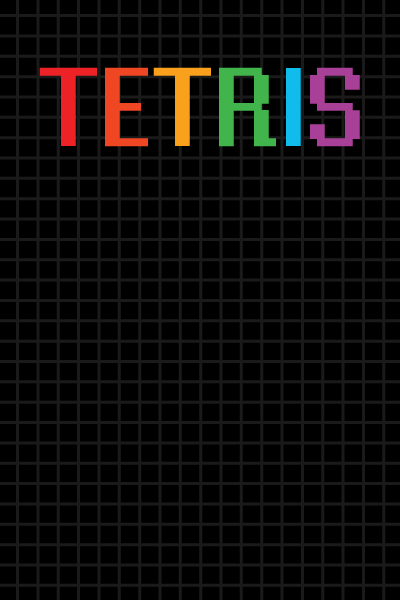
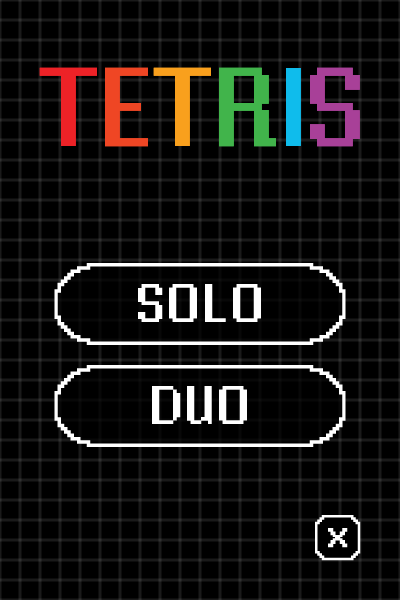
Feat: dialog 기능 구현 #105

Changed region(s): [[0.0, 0.0, 1.0, 1.0]]

diff --git a/app/src/main/java/tetris/view/MainView.java b/app/src/main/java/tetris/view/MainView.java
@@ -7,18 +7,23 @@ import tetris.presenter.MainPresenter;
 import java.awt.Graphics;
 import java.awt.Image;
 import javax.swing.*;
+import javax.swing.border.LineBorder;
+import javax.swing.border.TitledBorder;
 import java.awt.*;
 import java.awt.event.WindowEvent;
 
 public class MainView extends JFrame {
 
     private MainPresenter mainPresenter;
+    private boolean dialogOpen = false;
 
     private ImageIcon getResource(String path) {
         return new ImageIcon(getClass().getClassLoader().getResource(path));
     }
 
     private Image background = getResource("image/background.png").getImage();
+    private Image normalGameDialogBG = getResource("image/normalGameDialog.png").getImage();
+    private Image battleGameDialogBG = getResource("image/battleGameDialog.png").getImage();
 
     public MainView(final MainPresenter presenter) {
         this.mainPresenter = presenter;
@@ -35,6 +40,37 @@ public class MainView extends JFrame {
         };
         btnPanel.setLayout(null);
         btnPanel.setBorder(BorderFactory.createEmptyBorder(200 , 0 , 0 , 25));
+
+        JPanel normalGameDialog = new JPanel() {
+            public void paintComponent(Graphics g) {
+                g.drawImage(normalGameDialogBG, 0, 0, 400, 600, null);
+            }
+        };
+        JPanel battleGameDialog = new JPanel() {
+            public void paintComponent(Graphics g) {
+                g.drawImage(battleGameDialogBG, 0, 0, 400, 600, null);
+            }
+        };
+
+        JButton soloBtn = new JButton();
+        soloBtn.setBorderPainted(false);
+        soloBtn.setContentAreaFilled(false);
+        soloBtn.addActionListener(e -> {
+            if(dialogOpen) return;
+            normalGameDialog.setVisible(true);
+            dialogOpen = true;
+        });
+        soloBtn.setBounds(50, 245, 290, 80);
+
+        JButton duoBtn = new JButton();
+        duoBtn.setBorderPainted(false);
+        duoBtn.setContentAreaFilled(false);
+        duoBtn.addActionListener(e -> {
+            if(dialogOpen) return;
+            battleGameDialog.setVisible(true);
+            dialogOpen = true;
+        });
+        duoBtn.setBounds(50, 340, 290, 80);
 
         JButton playBtn = new JButton(getResource("image/play.png"));
         JButton normalBtn = new JButton(getResource("image/normal.png"));
@@ -165,11 +201,22 @@ public class MainView extends JFrame {
             App.navigate(App.View.CONFIG);
         });
 
+        JButton xBtn = new JButton();
+        xBtn.setBorderPainted(false);
+        xBtn.setContentAreaFilled(false);
+        xBtn.addActionListener(e -> {
+            if(dialogOpen) return;
+            dispatchEvent(new WindowEvent(this, WindowEvent.WINDOW_CLOSING));
+        });
+        xBtn.setBounds(302, 480, 45, 45);
+
         exitBtn.setBorderPainted(false);
         exitBtn.setContentAreaFilled(false);
         exitBtn.setBounds(305, 485, 46, 46);
         exitBtn.addActionListener(e -> {
-            dispatchEvent(new WindowEvent(this, WindowEvent.WINDOW_CLOSING));
+            normalGameDialog.setVisible(false);
+            battleGameDialog.setVisible(false);
+            dialogOpen = false;
         });
 
         toRecordBtn.setBorderPainted(false);
@@ -179,20 +226,39 @@ public class MainView extends JFrame {
             App.navigate(App.View.RECORD);
         });
 
+        normalGameDialog.setOpaque(false);
+        normalGameDialog.setVisible(false);
+        normalGameDialog.setLayout(null);
+        normalGameDialog.setBounds(0, 0, 400, 600);
+
+        //버튼 추가하기
+        normalGameDialog.add(settingBtn);
+        normalGameDialog.add(exitBtn);
+        normalGameDialog.add(toRecordBtn);
+
+        battleGameDialog.setOpaque(false);
+        battleGameDialog.setVisible(false);
+        battleGameDialog.setLayout(null);
+        battleGameDialog.setBounds(0, 0, 400, 600);
+
+        battleGameDialog.add(normalBtn);
+        battleGameDialog.add(normalClickedBtn);
+        battleGameDialog.add(itemBtn);
+        battleGameDialog.add(itemClickedBtn);
+        battleGameDialog.add(playBtn);
+        battleGameDialog.add(easyLevelBtn);
+        battleGameDialog.add(easyLevelClickedBtn);
+        battleGameDialog.add(normalLevelBtn);
+        battleGameDialog.add(normalLevelClickedBtn);
+        battleGameDialog.add(hardLevelBtn);
+        battleGameDialog.add(hardLevelClickedBtn);
+        battleGameDialog.add(exitBtn);
+
         this.setContentPane(btnPanel);
-        btnPanel.add(normalBtn);
-        btnPanel.add(normalClickedBtn);
-        btnPanel.add(itemBtn);
-        btnPanel.add(itemClickedBtn);
-        btnPanel.add(playBtn);
-        btnPanel.add(easyLevelBtn);
-        btnPanel.add(easyLevelClickedBtn);
-        btnPanel.add(normalLevelBtn);
-        btnPanel.add(normalLevelClickedBtn);
-        btnPanel.add(hardLevelBtn);
-        btnPanel.add(hardLevelClickedBtn);
-        btnPanel.add(settingBtn);
-        btnPanel.add(exitBtn);
-        btnPanel.add(toRecordBtn);
+        btnPanel.add(normalGameDialog);
+        btnPanel.add(battleGameDialog);
+        btnPanel.add(soloBtn);
+        btnPanel.add(duoBtn);
+        btnPanel.add(xBtn);
     }
 }
